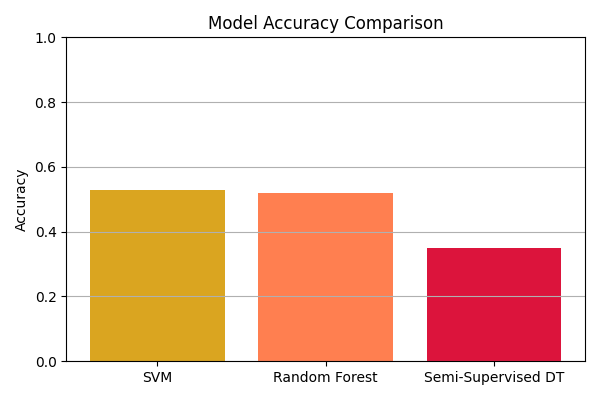
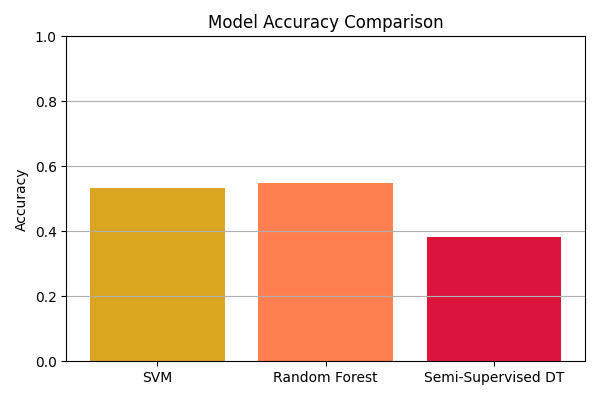
Modify Codes to save the results

diff --git a/produceResultsOfComparision.py b/produceResultsOfComparision.py
@@ -1,11 +1,19 @@
+import numpy as np
 import matplotlib.pyplot as plt
 
-# === Your actual results ===
-models = ['SVM', 'Random Forest', 'Semi-Supervised DT']
-accuracy = [0.53, 0.52, 0.35]
-macro_f1 = [0.53, 0.52, 0.34]
+# === Load results ===
+supervised_results = np.load("final_model_results.npy", allow_pickle=True).item()
+semi_supervised_results = np.load("semi_supervised_results.npy", allow_pickle=True).item()
 
-# === Accuracy Bar Chart ===
+# === Combine results ===
+combined_results = {**supervised_results, **semi_supervised_results}
+
+# === Prepare data ===
+models = list(combined_results.keys())
+accuracy = [combined_results[m]["accuracy"] for m in models]
+macro_f1 = [combined_results[m]["f1"] for m in models]
+
+# === Accuracy Plot ===
 plt.figure(figsize=(6, 4))
 plt.bar(models, accuracy, color=['goldenrod', 'coral', 'crimson'])
 plt.title("Model Accuracy Comparison")
@@ -13,10 +21,10 @@ plt.ylabel("Accuracy")
 plt.ylim(0, 1)
 plt.grid(True, axis='y')
 plt.tight_layout()
-plt.savefig("model_accuracy_comparison.png")  # Saves image in same folder
+plt.savefig("model_accuracy_comparison.png")
 plt.show()
 
-# === F1-Score Bar Chart ===
+# === F1-Score Plot ===
 plt.figure(figsize=(6, 4))
 plt.bar(models, macro_f1, color=['goldenrod', 'coral', 'crimson'])
 plt.title("Model Macro F1-Score Comparison")

diff --git a/trainModels.py b/trainModels.py
@@ -80,3 +80,23 @@ print("Random Forest Classification Report:")
 print(classification_report(y_test, rf_preds))
 print("Random Forest Confusion Matrix:")
 print(confusion_matrix(y_test, rf_preds))
+
+# --- Extract final results for plotting ---
+final_results = {
+    "SVM": {
+        "accuracy": accuracy_score(y_test, svm_preds),
+        "f1": f1_score(y_test, svm_preds, average='macro')
+    },
+    "Random Forest": {
+        "accuracy": accuracy_score(y_test, rf_preds),
+        "f1": f1_score(y_test, rf_preds, average='macro')
+    }
+}
+
+# Optional: Save results to .npy file for plotting script
+np.save("final_model_results.npy", final_results)
+
+# Or just print them to copy into your plotting script if preferred
+print("\n✅ Final Scores Summary:")
+for model_name, scores in final_results.items():
+    print(f"{model_name}: Accuracy = {scores['accuracy']:.4f}, F1 = {scores['f1']:.4f}")

diff --git a/semiSupervisedDT.py b/semiSupervisedDT.py
@@ -64,3 +64,25 @@ print("\n Final Evaluation on Test Set:")
 print(classification_report(y_test, final_preds))
 print("Confusion Matrix:")
 print(confusion_matrix(y_test, final_preds))
+
+from sklearn.metrics import accuracy_score, f1_score
+
+# Extract metrics
+dt_accuracy = accuracy_score(y_test, final_preds)
+dt_f1 = f1_score(y_test, final_preds, average='macro')
+
+# Store results for plotting
+semi_supervised_results = {
+    "Semi-Supervised DT": {
+        "accuracy": dt_accuracy,
+        "f1": dt_f1
+    }
+}
+
+# Save to .npy file
+np.save("semi_supervised_results.npy", semi_supervised_results)
+
+# Print summary
+print("\n✅ Final Scores Summary (Semi-Supervised DT):")
+print(f"Accuracy = {dt_accuracy:.4f}")
+print(f"Macro F1-Score = {dt_f1:.4f}")
